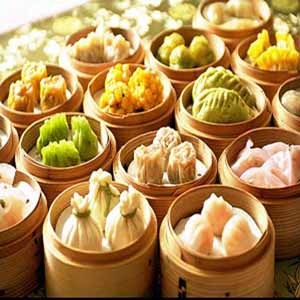
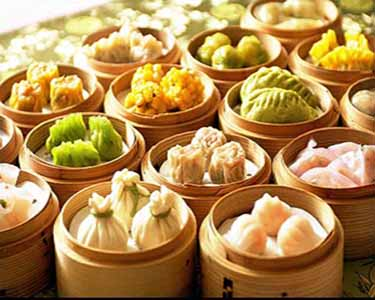
Resizing images and adding heading

diff --git a/css/style.css b/css/style.css
@@ -51,7 +51,9 @@ body {
 }
 
 .card-text {
-  font-size: 85%;
+  font-size: 150%;
+  background-color: #7EC0EE;
+  color: #FFF;
 }
 
 footer {

diff --git a/index.php b/index.php
@@ -22,9 +22,9 @@
     <section class="jumbotron text-center">
       <div class="container">
         <h1 class="jumbotron-heading">UrbanFork</h1>
-        <p class="lead text-muted">The place to find a ton of good food!</p>
+        <p class="lead text-muted">The place to search for good food!</p>
         <p>
-          <a href="#" class="btn btn-primary">Main call to action</a>
+          <a href="#" class="btn btn-primary">Sign up today!</a>
           <a href="#" class="btn btn-secondary">Secondary action</a>
         </p>
       </div>
@@ -35,29 +35,29 @@
 
         <div class="row">
           <div class="card">
-            <img src="img/chinese.jpg" alt="Card image cap">
-            <p class="card-text">Chinese</p>
+            <img src="img/chinese.jpg" class="img-responsive" alt="Card image cap">
+            <p class="card-text text-center">Chinese</p>
           </div>
           <div class="card">
-            <img src="img/french.jpg" alt="Card image cap">
-            <p class="card-text">French</p>
+            <img src="img/french.jpg" class="img-responsive" alt="Card image cap">
+            <p class="card-text text-center">French</p>
           </div>
           <div class="card">
-            <img src="img/italian.jpg" alt="Card image cap">
-            <p class="card-text">Italian</p>
+            <img src="img/italian.jpg" class="img-responsive" alt="Card image cap">
+            <p class="card-text text-center">Italian</p>
           </div>
 
           <div class="card">
-            <img src="img/korean.jpg" alt="Card image cap">
-            <p class="card-text">Korean</p>
+            <img src="img/korean.jpg" class="img-responsive" alt="Card image cap">
+            <p class="card-text text-center">Korean</p>
           </div>
           <div class="card">
-            <img src="img/german.jpg" alt="Card image cap">
-            <p class="card-text">German</p>
+            <img src="img/german.jpg" class="img-responsive" alt="Card image cap">
+            <p class="card-text text-center">German</p>
           </div>
           <div class="card">
-            <img src="img/japanese.jpg" alt="Card image cap">
-            <p class="card-text">Japanese</p>
+            <img src="img/japanese.jpg" class="img-responsive" alt="Card image cap">
+            <p class="card-text text-center">Japanese</p>
           </div>
         </div>
 
